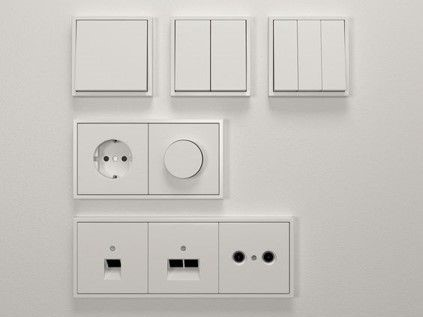
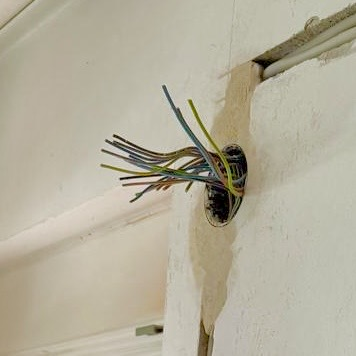
anpassungen

diff --git a/index.html b/index.html
@@ -465,8 +465,8 @@
                 <div class="card-details">
                   <ul>
                     <li>WLAN-Router verbinden</li>
-                    <li>Steuerung per App einrichten</li>
-                    <li>Geräte einstellen</li>
+                    <li>Steuerung per App</li>
+                    <li>Geräte einstellen (Casambi)</li>
                     <li>Sprachassistenten einrichten</li>
                     <li>Lichtszenen programmieren</li>
                   </ul>
@@ -515,15 +515,14 @@
                 </div>
                 <div class="card-details">
                   <ul>
-                    <li>Kabel nach Plan verlegen</li>
-                    <li>In Leerrohren</li>
-                    <li>Auf Kabelbühnen</li>
-                    <li>Befestigungsmittel anbringen</li>
-                    <li>Im Hochbau</li>
+                    <li>Schlitze fräsen</li>
+                    <li>Kabel verlegen</li>
+                    <li>Dosen setzen</li>
+                    <li>Einspachteln</li>
+                    <li>Befestigen</li>
                   </ul>
                 </div>
               </div>
-
               <div class="card-side front">
                 <div class="card-box-front">
                   <div class="card-image">
@@ -537,15 +536,14 @@
             <div class="card">
               <div class="card-side back">
                 <div class="card-cover-back">
-                  <h1>Großhandel</h1>
+                  <h1>Vertrieb</h1>
                 </div>
                 <div class="card-details">
                   <ul>
-                    <li>Elektrokleinteile</li>
-                    <li>Kabelkanäle</li>
-                    <li>Zubehör</li>
-                    <li>Befestigungsmaterial</li>
-                    <li>Größere Mengen</li>
+                    <li>LED-Leuchten</li>
+                    <li>Wallboxen</li>
+                    <li>Sicherheitssysteme</li>
+                    <li>Produktberatung</li>
                   </ul>
                 </div>
               </div>
@@ -553,9 +551,9 @@
               <div class="card-side front">
                 <div class="card-box-front">
                   <div class="card-image">
-                    <img src="img/portfolio/item2.jpg" alt="Großhandel" />
+                    <img src="img/portfolio/item2.jpg" alt="Vertrieb" />
                   </div>
-                  <h1>Großhandel</h1>
+                  <h1>Vertrieb</h1>
                 </div>
               </div>
             </div>
